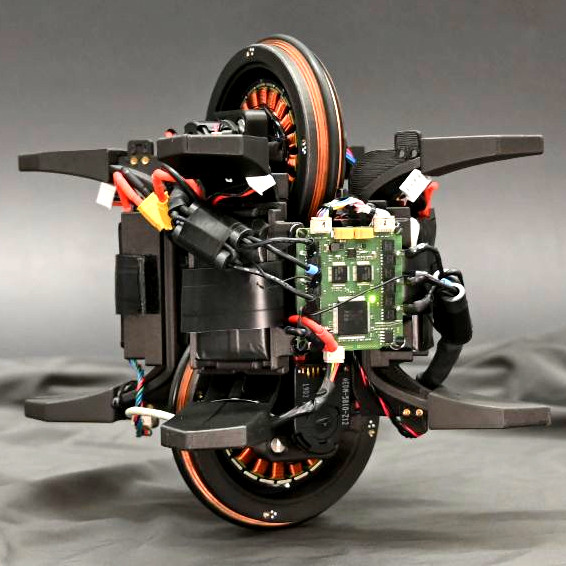
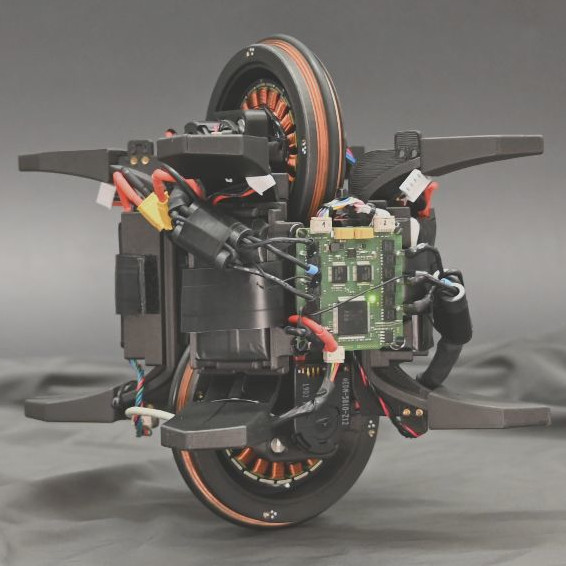
Make OpenScout picture square

diff --git a/README.md b/README.md
@@ -18,7 +18,7 @@ A curated list of awesome robots with open source software, open hardware, and i
 
 ## Gallery
 
-| <img src="gallery/upkie.jpg" alt="Upkie" height="100"> | <img src="https://github.com/cbedio/OpenScout/blob/main/Documentation/Images/agriscout_incline.png" alt="OpenScout" height="100"> | <img src="https://raw.githubusercontent.com/open-dynamic-robot-initiative/open_robot_actuator_hardware/master/mechanics/quadruped_robot_12dof_v1/images/solo12_8.jpg" alt="Solo" height="100"> | <img src="https://raw.githubusercontent.com/open-dynamic-robot-initiative/open_robot_actuator_hardware/master/mechanics/tri_finger_edu_v1/images/manipulator_platform_1.jpg" alt="TriFingerEdu" height="100"> |
+| <img src="gallery/upkie.jpg" alt="Upkie" height="100"> | <img src="gallery/openscout.jpg" alt="OpenScout" height="100"> | <img src="https://raw.githubusercontent.com/open-dynamic-robot-initiative/open_robot_actuator_hardware/master/mechanics/quadruped_robot_12dof_v1/images/solo12_8.jpg" alt="Solo" height="100"> | <img src="https://raw.githubusercontent.com/open-dynamic-robot-initiative/open_robot_actuator_hardware/master/mechanics/tri_finger_edu_v1/images/manipulator_platform_1.jpg" alt="TriFingerEdu" height="100"> |
 |--|--|--|--|
 | <img src="https://raw.githubusercontent.com/open-dynamic-robot-initiative/open_robot_actuator_hardware/master/mechanics/biped_6dof_v1/images/biped_3.jpg" alt="Bolt" height="100"> | <img src="gallery/wheelbot.jpg" alt="WheelBot" height="100"> | <img src="gallery/poppy-humanoid.jpg" alt="Poppy Humanoid" height="100"> | <img src="gallery/jpl-open-source-rover.png" alt="JPL Open Source Rover" height="100"> |
 | <img src="gallery/borinot.png" alt="Borinot" height="100"> | <img src="gallery/thor.jpg" alt="Thor" height="100"> | <img src="gallery/acromonk.jpg" alt="Acromonk" height="100"> | <img src="gallery/open-duck-mini.jpg" alt="Open Duck Mini" height="100"> |
